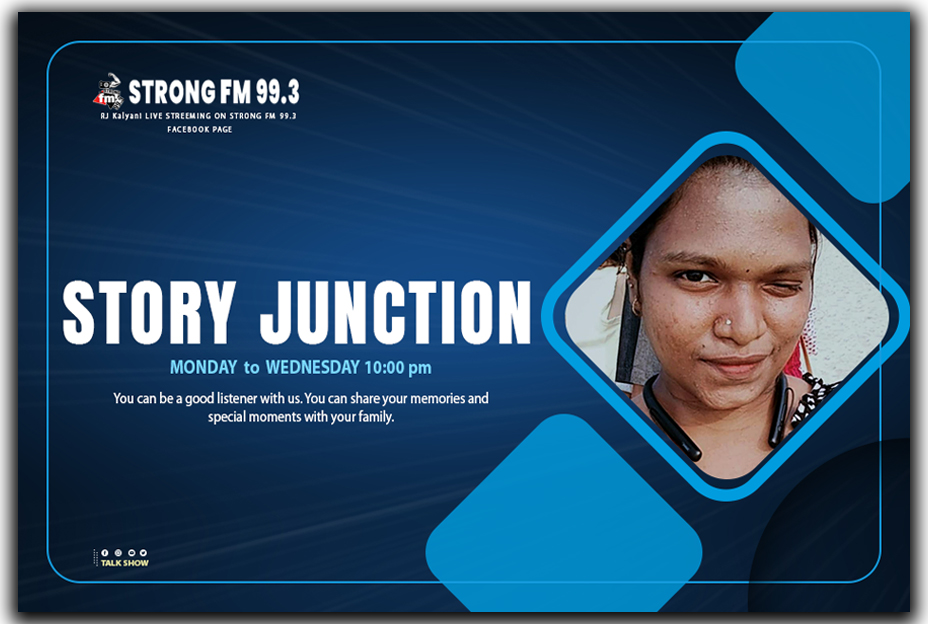
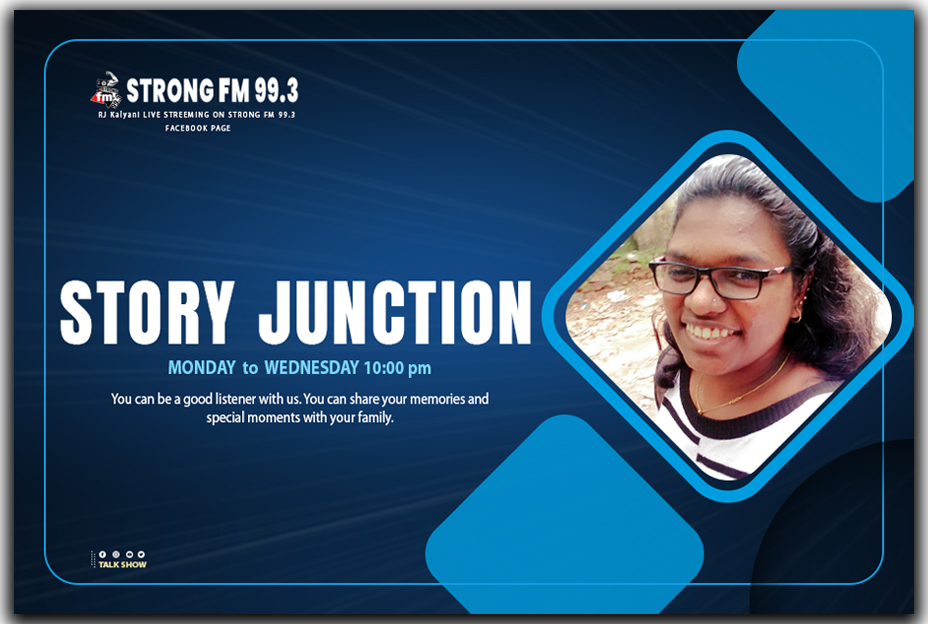
updat

diff --git a/programs.html b/programs.html
@@ -187,6 +187,17 @@
                         </div>
                     </div>
 
+                    <div id="shedul-sectin" class="col-lg-4 col-md-6 col-sm-12 pt-2 ">
+                        <div class="service-box">
+                            <img id="img" class="img-fluid" src="images/SWATHI.jpg ">
+                            <div class="names">
+                                <h4 id="progrm-page-sheduld-section-rjname text-uppercase" class="font-weight-bold pt-4"> RJ Swathy</h4>
+                                <p class="program-time text-uppercase">Vadakara Express</p>
+                            </div>
+
+                        </div>
+                    </div>
+
 
                 </div>
         </section>

diff --git a/index.html b/index.html
@@ -224,6 +224,16 @@
             </div>
           </div>
         </div>
+        <div class="col-lg-4 col-md-6 pt-2 pb-4">
+          <div class="service-box">
+            <img id="img" class=" progrm-imag img-fluid" src="images/SWATHI.jpg">
+
+            <div class="names">
+              <h4 class="program-name text-uppercase font-weight-bold pt-4">Vadakara Express</h4>
+              <p class="program-time text-uppercase">Thursday to Sunday 03:00 pm</p>
+            </div>
+          </div>
+        </div>
 
 
        
